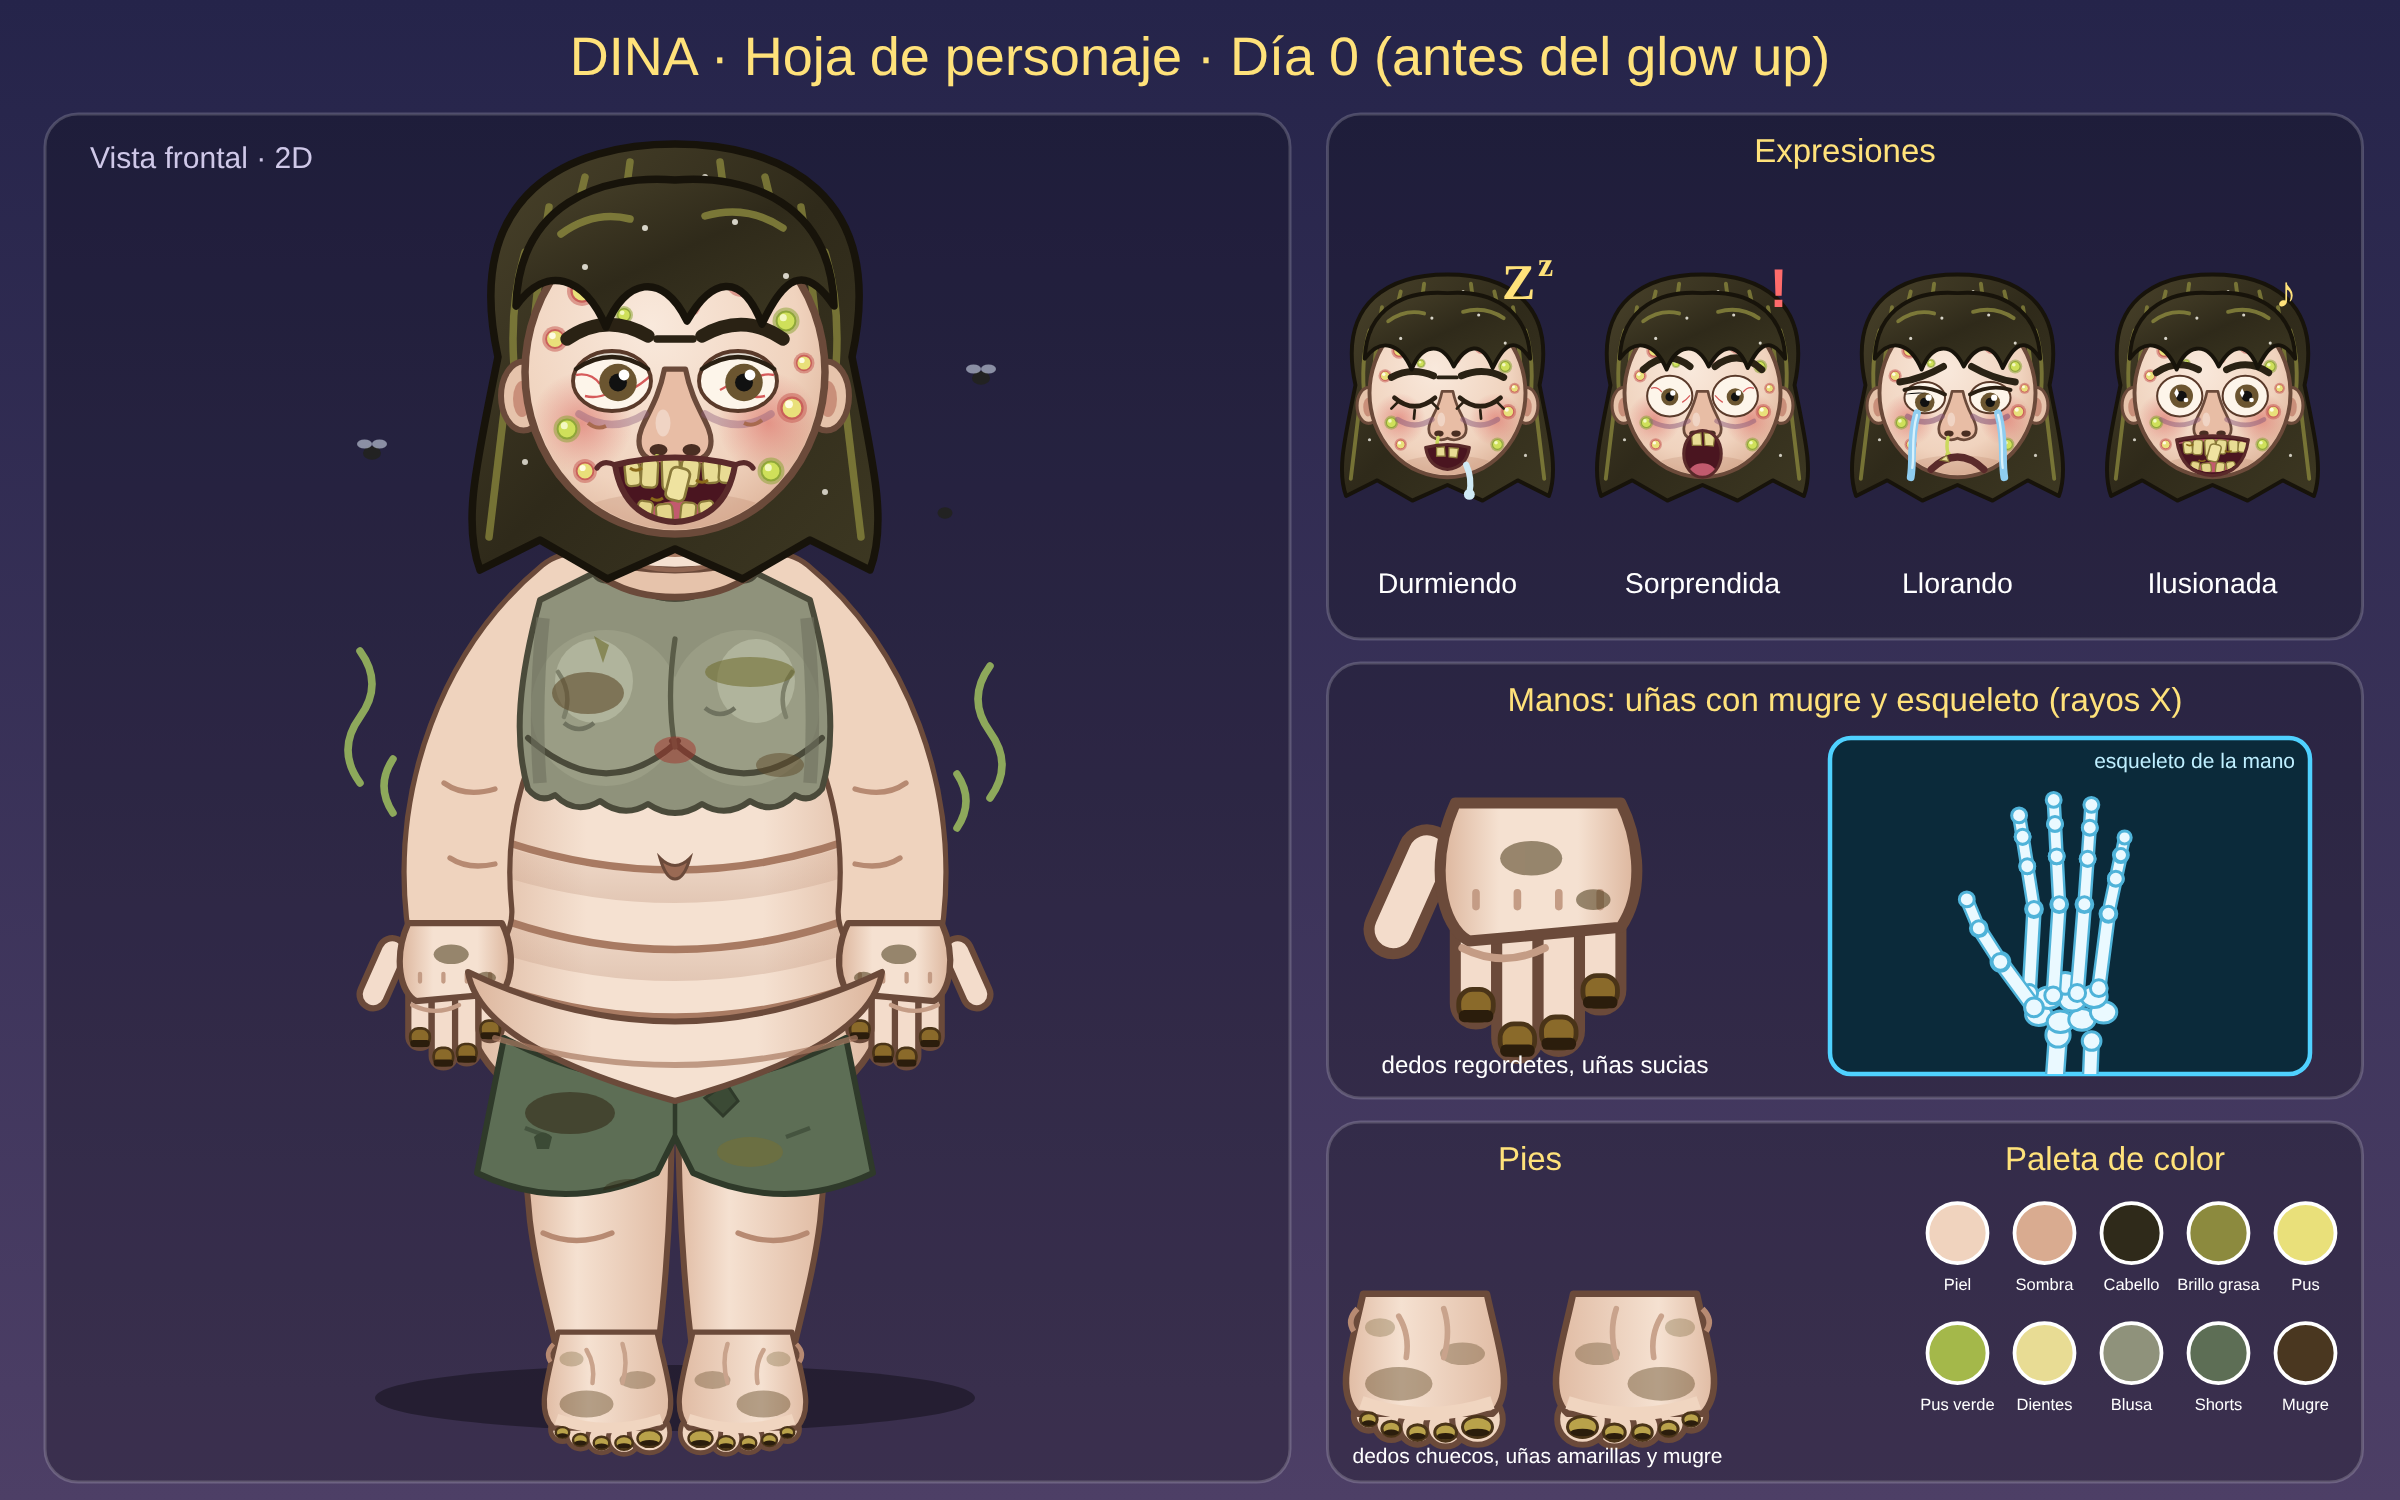
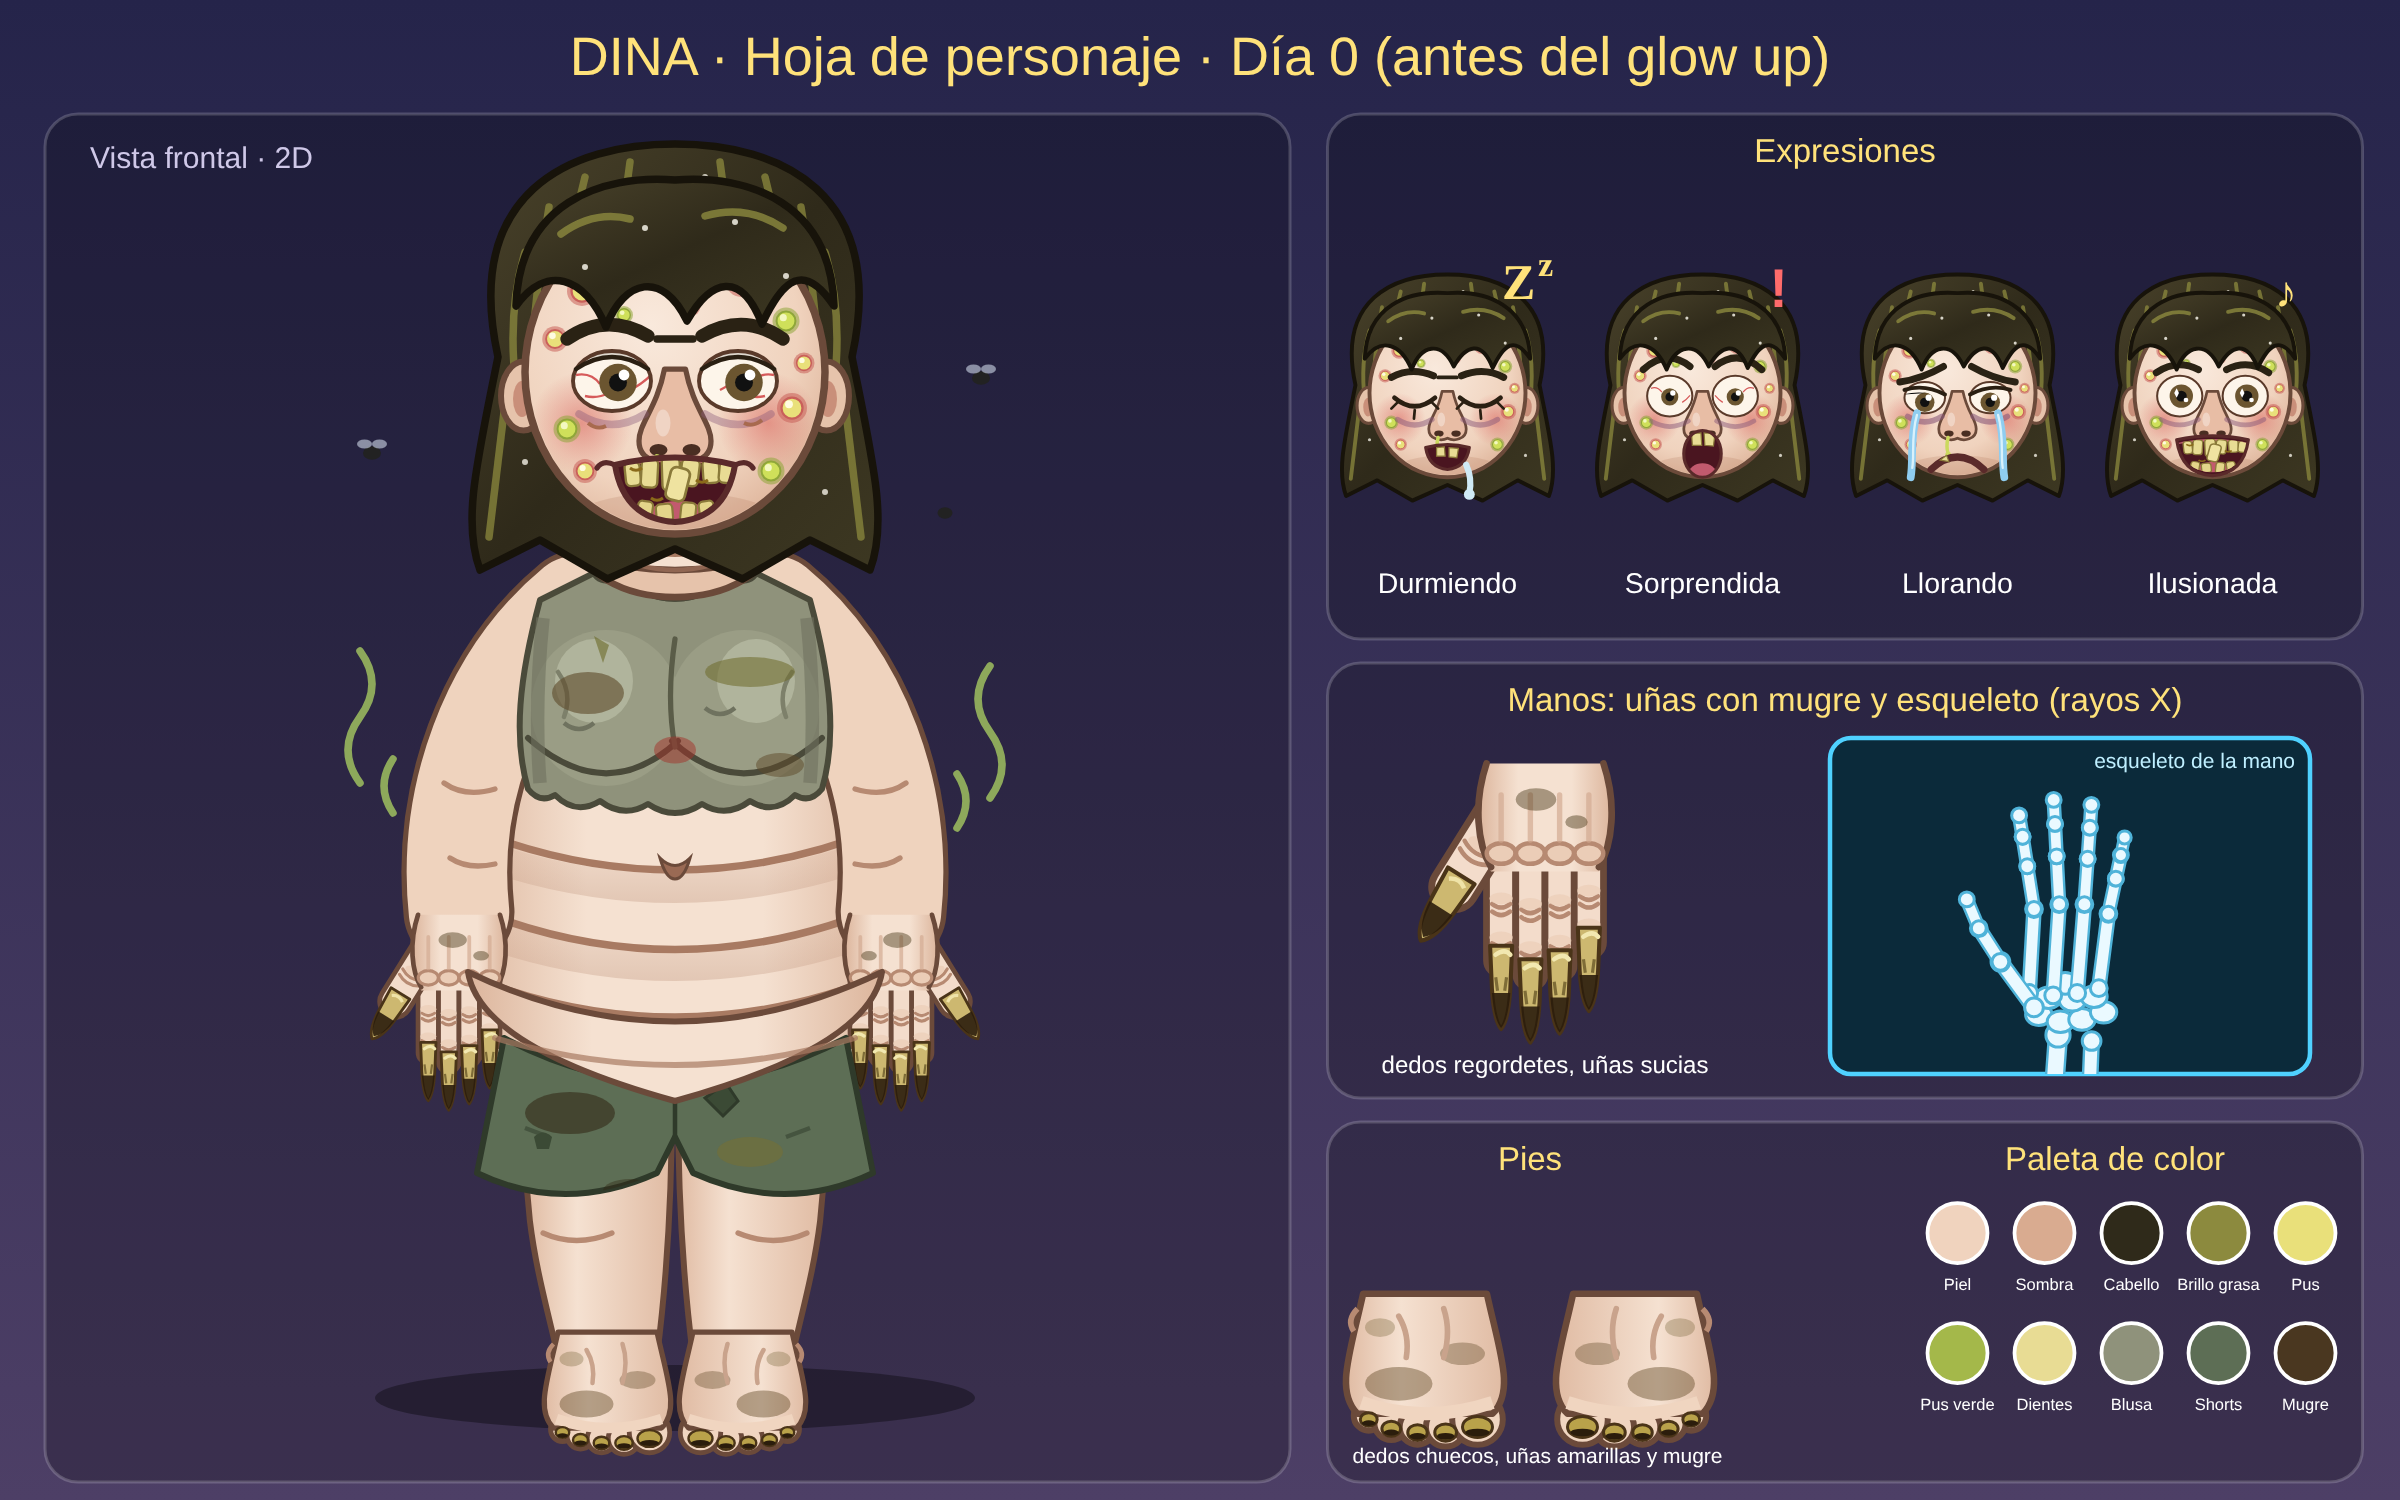
Redesign Dina's hands with joints and long dirty nails
Claude-Session: https://claude.ai/code/session_01VDdbgBKddvWBr21CNGDq5k

Changed region(s): [[0.5625, 0.4907, 0.6875, 0.7053], [0.3438, 0.6133, 0.4375, 0.736], [0.125, 0.6133, 0.2188, 0.736]]

diff --git a/dina/build_sheet.py b/dina/build_sheet.py
@@ -166,19 +166,7 @@ defs = f'''
 </g>
 
 <!-- ============ HAND (hanging, back of hand) origin = wrist ============ -->
-<g id="hand">
- <g fill="#f3dccb" stroke="#6b4a3a" stroke-width="3.2" stroke-linejoin="round">
-  <rect x="-26" y="26" width="12" height="36" rx="6"/><rect x="-14" y="30" width="12" height="42" rx="6"/>
-  <rect x="-2" y="30" width="12" height="40" rx="6"/><rect x="10" y="26" width="12" height="32" rx="6"/>
-  <rect x="-40" y="6" width="14" height="38" rx="7" transform="rotate(24 -33 10)"/>
- </g>
- <path d="M-26,-2 C-34,16 -30,34 -22,38 L22,34 C30,22 26,6 22,-2Z" fill="url(#skinG)" stroke="#6b4a3a" stroke-width="3.2" stroke-linejoin="round"/>
- <path d="M-22,24 L22,24" stroke="#f3dccb" stroke-width="0"/>
- <g fill="#8a6a2a" stroke="#4a3418" stroke-width="1.4"><rect x="-25" y="52" width="10" height="9" rx="4"/><rect x="-13" y="62" width="10" height="9" rx="4"/><rect x="-1" y="60" width="10" height="9" rx="4"/><rect x="11" y="48" width="10" height="9" rx="4"/></g>
- <g fill="#2b1d0c"><rect x="-25" y="58" width="10" height="3.5" rx="1.6"/><rect x="-13" y="68" width="10" height="3.5" rx="1.6"/><rect x="-1" y="66" width="10" height="3.5" rx="1.6"/><rect x="11" y="54" width="10" height="3.5" rx="1.6"/></g>
- <g stroke="#c49c85" stroke-width="2.2" fill="none" stroke-linecap="round"><path d="M-20,28 l0,-4 M-8,28 l0,-4 M4,28 l0,-4 M16,28 l0,-4"/><path d="M-24,40 q12,6 24,0"/></g>
- <g fill="#4a3a1a" opacity=".55"><ellipse cx="-4" cy="14" rx="9" ry="5"/><ellipse cx="14" cy="26" rx="5" ry="3"/></g>
-</g>
+<g id="hand"><g fill="#f3dccb" stroke="#6b4a3a" stroke-width="3" stroke-linejoin="round"><rect x="-26" y="30" width="13" height="62" rx="6.5"/><rect x="-13" y="30" width="13" height="68" rx="6.5"/><rect x="0" y="30" width="13" height="64" rx="6.5"/><rect x="13" y="30" width="13" height="54" rx="6.5"/></g><g transform="translate(-16,14) rotate(32)"><rect x="-10" y="-6" width="20" height="62" rx="10" fill="#f3dccb" stroke="#6b4a3a" stroke-width="3"/><path d="M-7,26 q7,4 14,0 M-7,30 q7,4 14,0" stroke="#b78a72" stroke-width="2" fill="none" stroke-linecap="round"/><ellipse cx="0" cy="24" rx="6" ry="3" fill="#ebcdb7" opacity=".8"/><path d="M-7,40 L7,40 L6,56 Q5,70 0,74 Q-5,70 -6,56Z" fill="#cdb870" stroke="#4a3418" stroke-width="1.8" stroke-linejoin="round"/><path d="M-6,57 L6,57 Q5,68 0,72 Q-5,68 -6,57Z" fill="#2b1d0c" opacity=".9"/><path d="M-4,44 q4,-3 8,0" stroke="#efe3a8" stroke-width="2" fill="none"/></g><path d="M-26,-2 C-32,16 -30,34 -24,46 L24,46 C30,34 32,16 26,-2Z" fill="url(#skinG)"/><path d="M-26,-2 C-32,16 -30,34 -24,44 M26,-2 C32,16 30,34 24,44" stroke="#6b4a3a" stroke-width="3" fill="none" stroke-linecap="round"/><ellipse cx="-19.5" cy="38" rx="6.4" ry="4.6" fill="#ebcdb7" stroke="#b78a72" stroke-width="2"/><path d="M-19.5,12 L-19.5,32" stroke="#d3ab93" stroke-width="2.4" fill="none" stroke-linecap="round" opacity=".7"/><path d="M-23.5,60.4 q4,3.2 8,0 M-23.5,63.8 q4,3.2 8,0" stroke="#b78a72" stroke-width="2" fill="none" stroke-linecap="round"/><ellipse cx="-19.5" cy="57.9" rx="5.2" ry="2.6" fill="#ebcdb7" opacity=".7"/><path d="M-23.5,77.8 q4,3.2 8,0 M-23.5,81.2 q4,3.2 8,0" stroke="#b78a72" stroke-width="2" fill="none" stroke-linecap="round"/><ellipse cx="-19.5" cy="75.3" rx="5.2" ry="2.6" fill="#ebcdb7" opacity=".7"/><ellipse cx="-6.5" cy="38" rx="6.4" ry="4.6" fill="#ebcdb7" stroke="#b78a72" stroke-width="2"/><path d="M-6.5,12 L-6.5,32" stroke="#d3ab93" stroke-width="2.4" fill="none" stroke-linecap="round" opacity=".7"/><path d="M-10.5,62.9 q4,3.2 8,0 M-10.5,66.3 q4,3.2 8,0" stroke="#b78a72" stroke-width="2" fill="none" stroke-linecap="round"/><ellipse cx="-6.5" cy="60.4" rx="5.2" ry="2.6" fill="#ebcdb7" opacity=".7"/><path d="M-10.5,82.1 q4,3.2 8,0 M-10.5,85.5 q4,3.2 8,0" stroke="#b78a72" stroke-width="2" fill="none" stroke-linecap="round"/><ellipse cx="-6.5" cy="79.6" rx="5.2" ry="2.6" fill="#ebcdb7" opacity=".7"/><ellipse cx="6.5" cy="38" rx="6.4" ry="4.6" fill="#ebcdb7" stroke="#b78a72" stroke-width="2"/><path d="M6.5,12 L6.5,32" stroke="#d3ab93" stroke-width="2.4" fill="none" stroke-linecap="round" opacity=".7"/><path d="M2.5,61.2 q4,3.2 8,0 M2.5,64.6 q4,3.2 8,0" stroke="#b78a72" stroke-width="2" fill="none" stroke-linecap="round"/><ellipse cx="6.5" cy="58.7" rx="5.2" ry="2.6" fill="#ebcdb7" opacity=".7"/><path d="M2.5,79.2 q4,3.2 8,0 M2.5,82.6 q4,3.2 8,0" stroke="#b78a72" stroke-width="2" fill="none" stroke-linecap="round"/><ellipse cx="6.5" cy="76.7" rx="5.2" ry="2.6" fill="#ebcdb7" opacity=".7"/><ellipse cx="19.5" cy="38" rx="6.4" ry="4.6" fill="#ebcdb7" stroke="#b78a72" stroke-width="2"/><path d="M19.5,12 L19.5,32" stroke="#d3ab93" stroke-width="2.4" fill="none" stroke-linecap="round" opacity=".7"/><path d="M15.5,57.0 q4,3.2 8,0 M15.5,60.4 q4,3.2 8,0" stroke="#b78a72" stroke-width="2" fill="none" stroke-linecap="round"/><ellipse cx="19.5" cy="54.5" rx="5.2" ry="2.6" fill="#ebcdb7" opacity=".7"/><path d="M15.5,72.0 q4,3.2 8,0 M15.5,75.4 q4,3.2 8,0" stroke="#b78a72" stroke-width="2" fill="none" stroke-linecap="round"/><ellipse cx="19.5" cy="69.5" rx="5.2" ry="2.6" fill="#ebcdb7" opacity=".7"/><path d="M-24.4,79 L-14.6,79 L-15.4,98 Q-16.2,112 -19.5,116 Q-22.799999999999997,112 -23.599999999999998,98Z" fill="#cdb870" stroke="#4a3418" stroke-width="1.8" stroke-linejoin="round"/><path d="M-23.599999999999998,100 L-15.4,100 Q-16.4,112 -19.5,115.5 Q-22.599999999999998,112 -23.599999999999998,100Z" fill="#2b1d0c" opacity=".9"/><path d="M-22.0,83 q4.1,-3 6.6,0" stroke="#f2e8b0" stroke-width="2" fill="none" stroke-linecap="round"/><path d="M-21.9,93 l0.8,6 M-17.1,93 l-0.8,6" stroke="#6b5a2a" stroke-width="1.4" opacity=".8"/><path d="M-11.4,85 L-1.5999999999999996,85 L-2.3999999999999995,104 Q-3.1999999999999997,118 -6.5,122 Q-9.8,118 -10.6,104Z" fill="#cdb870" stroke="#4a3418" stroke-width="1.8" stroke-linejoin="round"/><path d="M-10.6,106 L-2.3999999999999995,106 Q-3.3999999999999995,118 -6.5,121.5 Q-9.6,118 -10.6,106Z" fill="#2b1d0c" opacity=".9"/><path d="M-9.0,89 q4.1,-3 6.6,0" stroke="#f2e8b0" stroke-width="2" fill="none" stroke-linecap="round"/><path d="M-8.9,99 l0.8,6 M-4.1,99 l-0.8,6" stroke="#6b5a2a" stroke-width="1.4" opacity=".8"/><path d="M1.6,81 L11.4,81 L10.6,100 Q9.8,114 6.5,118 Q3.2,114 2.4000000000000004,100Z" fill="#cdb870" stroke="#4a3418" stroke-width="1.8" stroke-linejoin="round"/><path d="M2.4000000000000004,102 L10.6,102 Q9.6,114 6.5,117.5 Q3.4000000000000004,114 2.4000000000000004,102Z" fill="#2b1d0c" opacity=".9"/><path d="M4.0,85 q4.1,-3 6.6,0" stroke="#f2e8b0" stroke-width="2" fill="none" stroke-linecap="round"/><path d="M4.1,95 l0.8,6 M8.9,95 l-0.8,6" stroke="#6b5a2a" stroke-width="1.4" opacity=".8"/><path d="M14.6,71 L24.4,71 L23.599999999999998,90 Q22.799999999999997,104 19.5,108 Q16.2,104 15.4,90Z" fill="#cdb870" stroke="#4a3418" stroke-width="1.8" stroke-linejoin="round"/><path d="M15.4,92 L23.599999999999998,92 Q22.599999999999998,104 19.5,107.5 Q16.4,104 15.4,92Z" fill="#2b1d0c" opacity=".9"/><path d="M17.0,75 q4.1,-3 6.6,0" stroke="#f2e8b0" stroke-width="2" fill="none" stroke-linecap="round"/><path d="M17.1,85 l0.8,6 M21.9,85 l-0.8,6" stroke="#6b5a2a" stroke-width="1.4" opacity=".8"/><g fill="#4a3a1a" opacity=".45"><ellipse cx="-4" cy="14" rx="9" ry="5"/><ellipse cx="14" cy="24" rx="5" ry="3"/></g></g>
 
 <!-- ============ FOOT (front view, left foot, origin = floor centre) ============ -->
 <g id="foot">
@@ -224,7 +212,7 @@ body = '''
  <path d="M516,352 C574,400 602,480 594,556" stroke="#6b4a3a" stroke-width="74" fill="none" stroke-linecap="round"/>
  <path d="M516,352 C574,400 602,480 594,556" stroke="#efd3be" stroke-width="67" fill="none" stroke-linecap="round"/>
  <path d="M296,470 q14,10 34,4 M604,470 q-14,10 -34,4 M300,520 q12,8 30,4 M600,520 q-12,8 -30,4" stroke="#b78a72" stroke-width="3.5" fill="none" stroke-linecap="round"/>
- <use href="#hand" transform="translate(306,566) scale(1.3)"/><use href="#hand" transform="translate(594,566) scale(-1.3,1.3)"/>
+ <use href="#hand" transform="translate(306,560) scale(1.05)"/><use href="#hand" transform="translate(594,560) scale(-1.05,1.05)"/>
  <!-- shorts -->
  <clipPath id="shortsClip"><path d="M336,640 Q450,700 564,640 L582,730 Q524,758 462,730 L450,706 L438,730 Q376,758 318,730Z"/></clipPath>
  <path d="M336,640 Q450,700 564,640 L582,730 Q524,758 462,730 L450,706 L438,730 Q376,758 318,730Z" fill="#5d6e55" stroke="#2f3a2a" stroke-width="4" stroke-linejoin="round"/>
@@ -291,7 +279,7 @@ panels += faces
 panels += '''
 <rect x="885" y="442" width="690" height="290" rx="22" fill="#0000003a" stroke="#ffffff30" stroke-width="2"/>
 <text x="1230" y="474" text-anchor="middle" font-family="Arial,sans-serif" font-size="22" fill="#ffe27a">Manos: uñas con mugre y esqueleto (rayos X)</text>
-<g transform="translate(1030,540) scale(2.3)"><use href="#hand"/></g>
+<g transform="translate(1030,512) scale(1.5)"><use href="#hand"/></g>
 <text x="1030" y="715" text-anchor="middle" font-family="Arial,sans-serif" font-size="16" fill="#fff">dedos regordetes, uñas sucias</text>
 <clipPath id="xClip"><rect x="1220" y="492" width="320" height="224" rx="14"/></clipPath>
 <rect x="1220" y="492" width="320" height="224" rx="14" fill="#0b2a3a" stroke="#4fd1ff" stroke-width="3"/>
